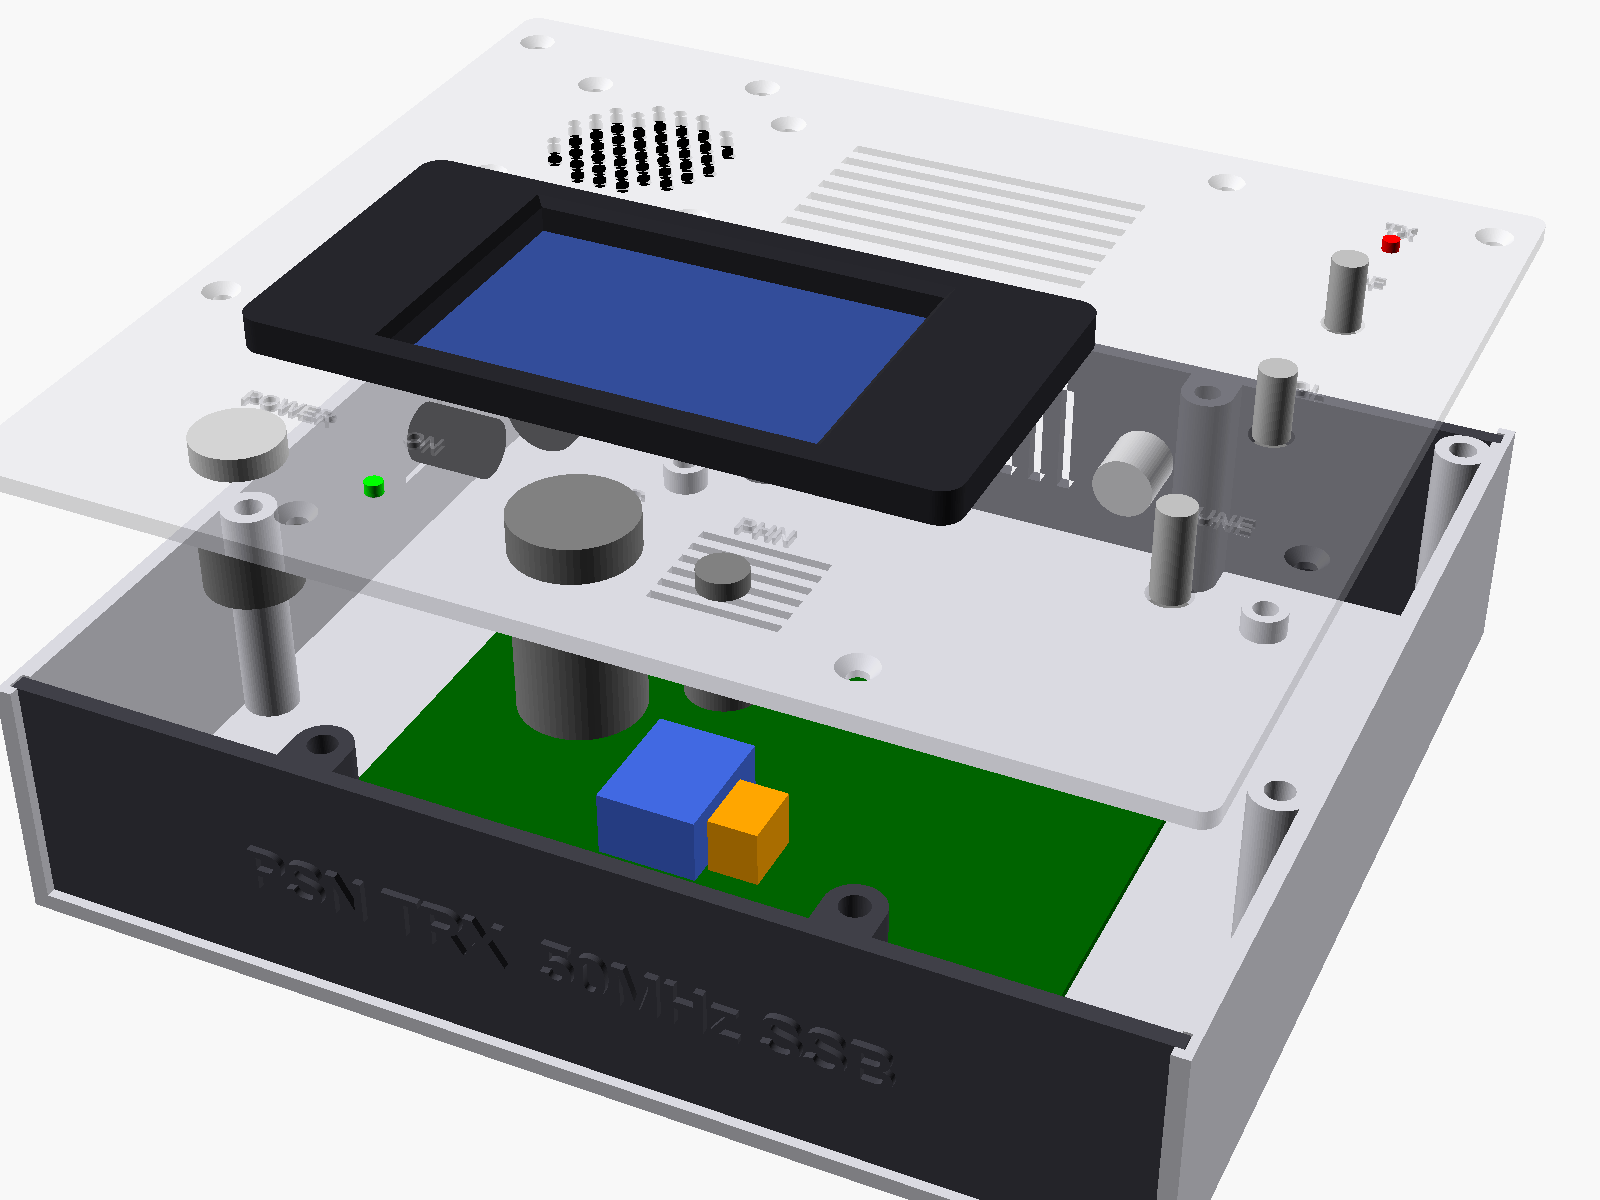
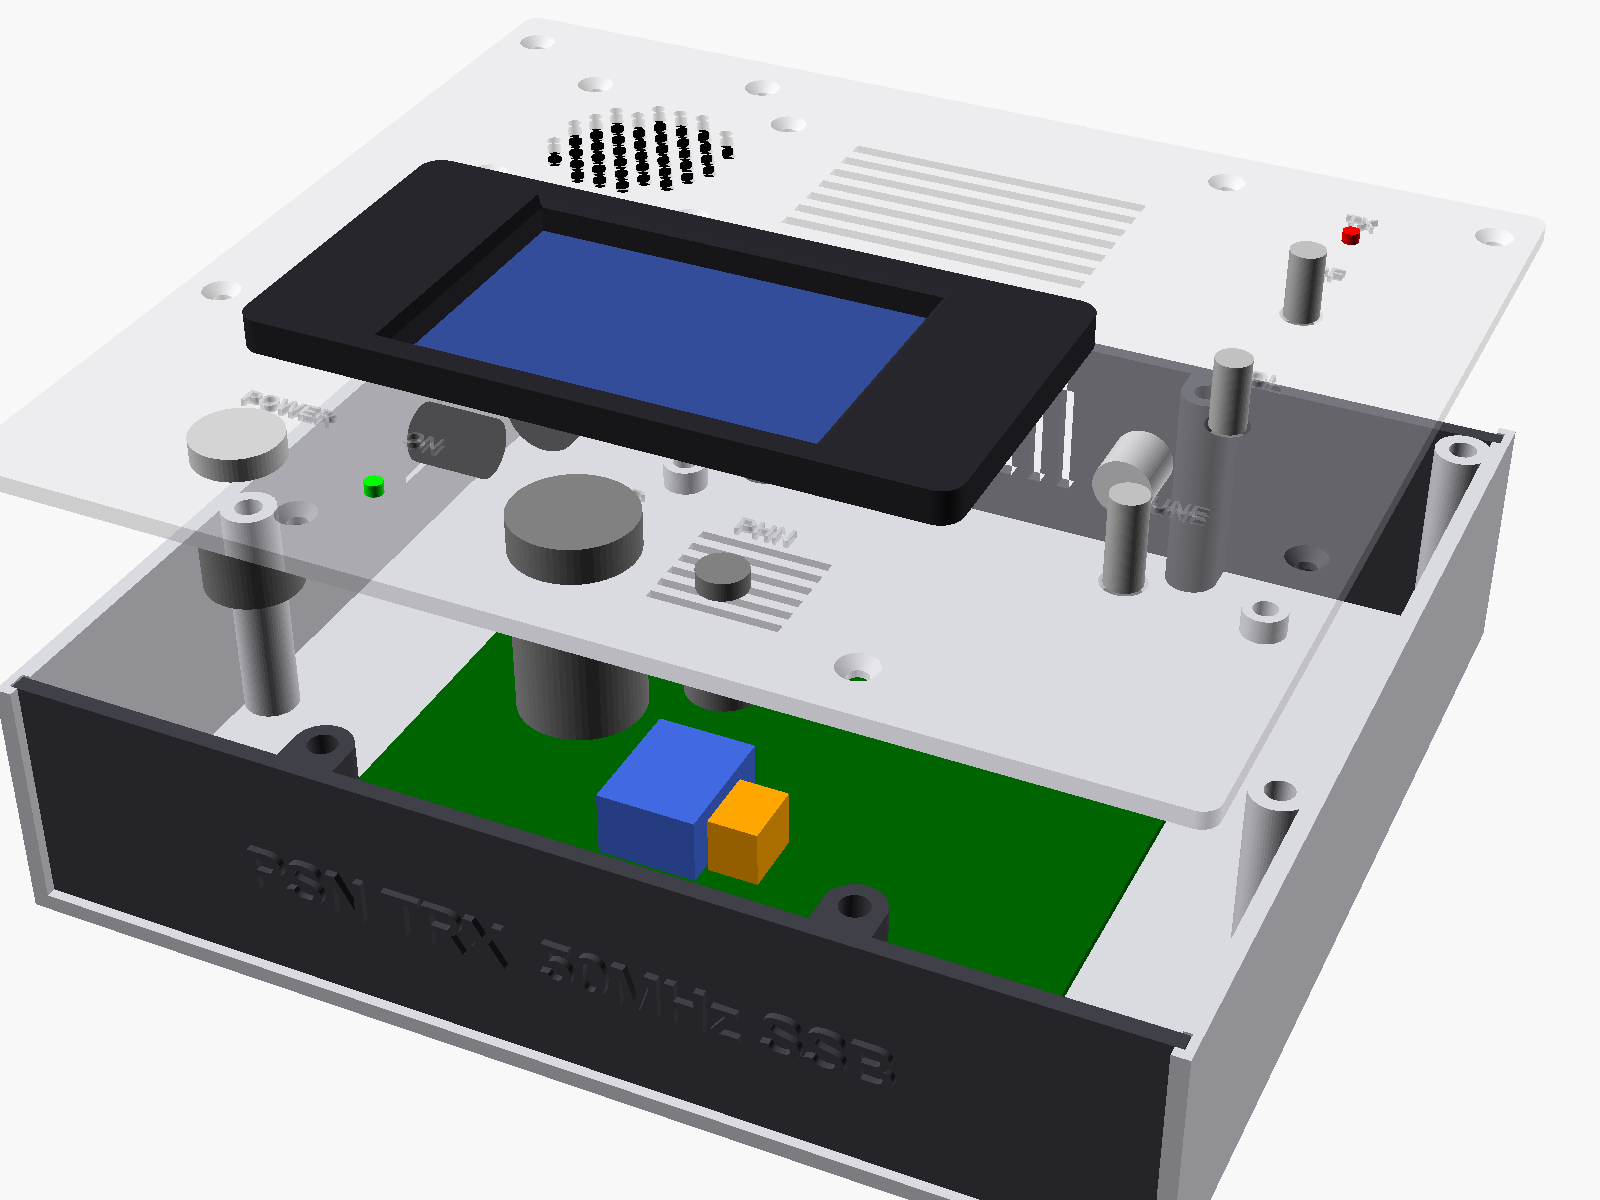
ケース: 右の列（TUNE・VOL・RF・TX）を 7mm 左へ（X 179 → 172）
高さ 48mm ではつまみの本体が基板の部品（高さ 14mm 以下）の上を通るので、
基板の外側に置くチェックを高さのチェックに置き換えた。TUNE とベゼルの間は 8mm。
README の位置とプレビュー画像を更新（前後パネルの図面は変わらない）。

Changed region(s): [[0.75, 0.185, 0.875, 0.37], [0.6875, 0.4008, 0.75, 0.5242]]

diff --git a/enclosure/README.md b/enclosure/README.md
@@ -18,8 +18,8 @@
 
 - 外形: **幅 201 × 奥行き 180 × 高さ 48 mm**（ベゼル 6 mm は上面に出る）。2026-11-18 に 220 × 180 × 40 mm から変更: 配置はそのままで左右を詰め、放熱器 HS1 がスピーカーのマグネットにかからないよう基板と右の列を右へ寄せ、マグネット（厚さ最大 18.5 mm）が基板の部品（高さ 14 mm 以下）の上を通るよう高さを上げた。放熱器（25 mm）の上端は底から約 34.6 mm、ふた裏面は 45 mm。
 - 操作は上から: 上面の手前（LCD の中央付近）に MIC・PHN、その奥に LCD（放熱器の手前まで）。ふた裏で部品の本体が基板にかからない位置に並べています。
-  - 右列（X = 179 mm）: 奥から **TX・RF・VOL・TUNE**（Y 158・130・92・45 mm。TUNE のつまみ φ32 を回す指が VOL に当たらないよう間隔を広げた）
-  - LCD の窓の手前の 1 列: 左から **POWER（電源スイッチ）・ON（電源 LED）・MIC・PHN** を、X 38.5・62.5・96.5・120.5 mm（Y 20 mm）に並べた（POWER と ON、MIC と PHN はそれぞれ 24 mm 間隔、ON と MIC の間は 34 mm）。TX ランプは右の列の RF ゲインのつまみの後ろ（X 179 mm、Y 158 mm）。LCD とベゼルの位置はこの列とは別に決めている（ベゼルの左端 X 20 mm、窓の中心 X 82.5 mm）。間隔は MIC のつばと PHN のプラグの間に指が入る 10 mm から決めた。電源関係（DC ジャック・ヒューズ・電源スイッチ・電源 LED・基板の J2）を左に、アンテナ関係（BNC・基板の J1）を右に集め、電源線がケースの左側だけを通って PA の出力 LPF・BNC の上を通らないようにしています
+  - 右列（X = 172 mm）: 奥から **TX・RF・VOL・TUNE**（Y 158・130・92・45 mm。TUNE のつまみ φ32 を回す指が VOL に当たらないよう間隔を広げた）。つまみの本体（ふた裏に 10〜12 mm）は基板の右端の部品（高さ 14 mm 以下）の上に来る（隙間約 10 mm）
+  - LCD の窓の手前の 1 列: 左から **POWER（電源スイッチ）・ON（電源 LED）・MIC・PHN** を、X 38.5・62.5・96.5・120.5 mm（Y 20 mm）に並べた（POWER と ON、MIC と PHN はそれぞれ 24 mm 間隔、ON と MIC の間は 34 mm）。TX ランプは右の列の RF ゲインのつまみの後ろ（X 172 mm、Y 158 mm）。LCD とベゼルの位置はこの列とは別に決めている（ベゼルの左端 X 20 mm、窓の中心 X 82.5 mm）。間隔は MIC のつばと PHN のプラグの間に指が入る 10 mm から決めた。電源関係（DC ジャック・ヒューズ・電源スイッチ・電源 LED・基板の J2）を左に、アンテナ関係（BNC・基板の J1）を右に集め、電源線がケースの左側だけを通って PA の出力 LPF・BNC の上を通らないようにしています
   - 手前（LCD の手前の中央付近、ふた裏の本体は基板より前）: 左から **MIC・PHN**
   - 後面（後ろから見て左から）: **ANT（BNC）・DC 12V・FUSE**（高さは後面の見える範囲の中央、下から約 24 mm）。ANT は基板の J1（アンテナ）のすぐ後ろ、DC 12V は FUSE の隣（ジャックとヒューズの間の線を短くする）
   - 前面: 機種名のみ
@@ -47,7 +47,7 @@
 | AF ボリューム（10 kΩ A） | φ7.2 | J5 |
 | RF ゲイン ボリューム（10 kΩ B） | φ7.2 | J3 |
 | 電源スイッチ | φ13.0（丸穴）。LCD の窓の下の左端（X 38.5、Y 20 mm、ふた裏に約 20 mm。本体は基板の前端より手前） | DC ジャック → ヒューズ → スイッチ → J2。線はケースの左の側板に沿わせる（後面の DC ジャック → ヒューズ → スイッチ → J2 で ＋12V 約 180 mm） |
-| 送信表示 LED（3 mm） | φ3.0。右の列、RF ゲインのつまみの後ろ（X 179、Y 158 mm） | J9（基板の右側の辺の前寄り、ケースで X 約 164、Y 約 79 mm） |
+| 送信表示 LED（3 mm） | φ3.0。右の列、RF ゲインのつまみの後ろ（X 172、Y 158 mm） | J9（基板の右側の辺の前寄り、ケースで X 約 164、Y 約 79 mm） |
 | スピーカー（秋月 116024 DXYD50N-22Z-8A-F、5 cm 8 Ω 0.5 W） | 放音穴 φ2.5（直径 35 mm の範囲）、取付穴 φ3.4 × 4（40 mm 角、皿もみ）。中心 X 46、Y 138 mm、通風スロット（X 81〜136 mm）の左 | J6（SP-OUT）からイヤホンジャック（MJ-352W-C）のブレーク接点経由。イヤホンを挿すとスピーカーが切れる |
 | 電源 LED（3 mm、高輝度品） | φ3.1（LED ホルダ使用時は 5.0 に変更）。電源スイッチの右（X 62.5 mm） | 基板の J12 へ（電流制限は基板の R80 10 kΩ、約 1 mA。J12.1 = アノード側、J12.2 = GND） |
 | マイクコネクタ（4P 丸型） | φ16.2 | J7（1: +5V / 2: MIC / 3: PTT / 4: GND） |
